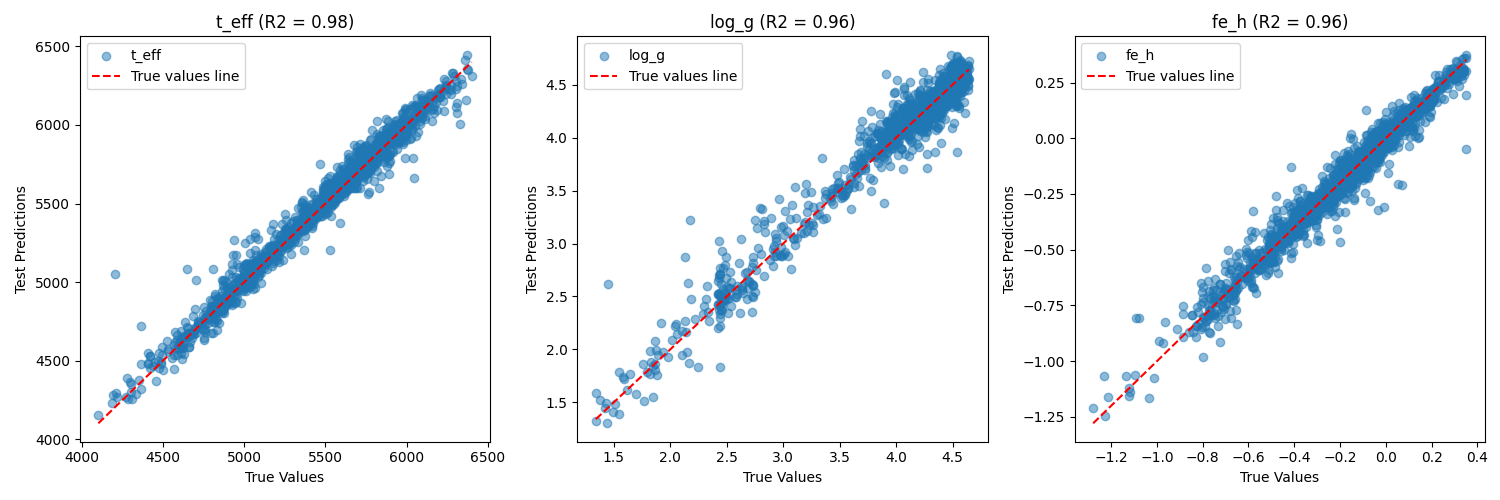
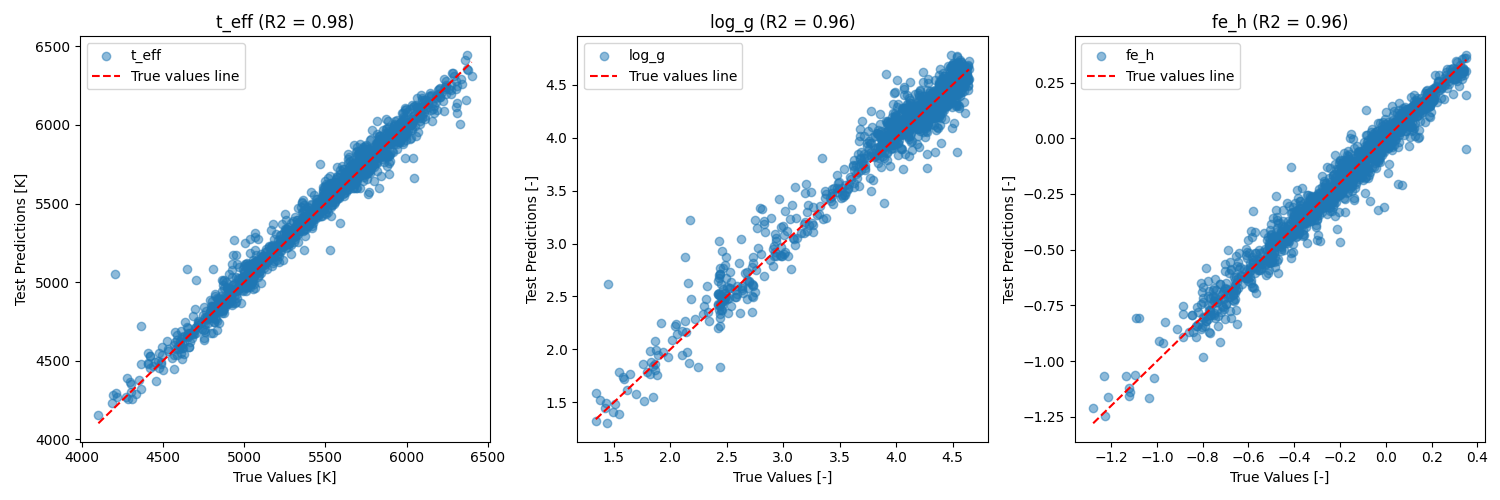
added residuals plot and chart units

diff --git a/2_uncertainty/plot.py b/2_uncertainty/plot.py
@@ -114,7 +114,7 @@ def plot_pull_histogram(true_labels, predicted_means, predicted_stds, num_labels
     plt.savefig(os.path.join(IMAGES_DIR, filename))
     plt.show()
 
-def plot_scatter(true_labels, predicted_means, num_labels, name_labels, experiment_name):
+def plot_scatter(true_labels, predicted_means, num_labels, name_labels, unit_labels, experiment_name):
     
 
     plt.figure(figsize=(15, 5))
@@ -129,13 +129,34 @@ def plot_scatter(true_labels, predicted_means, num_labels, name_labels, experime
         plt.plot([true_labels[:, i].min(), true_labels[:, i].max()],
                 [true_labels[:, i].min(), true_labels[:, i].max()],
                 color="red", linestyle="--", label="True values line")
-        plt.xlabel("True Values")
-        plt.ylabel("Test Predictions")
+        plt.xlabel(f"True Values [{unit_labels[i]}]")
+        plt.ylabel(f"Test Predictions [{unit_labels[i]}]")
         plt.title(f"{name_labels[i]} (R2 = {r2:.2f})")
         plt.legend()
 
     plt.tight_layout()
     filename = f"predictions_{experiment_name}.png"
+    os.makedirs(IMAGES_DIR, exist_ok=True)
+    plt.savefig(os.path.join(IMAGES_DIR, filename))
+    plt.show()
+
+
+def plot_residuals(true_labels, predicted_means, predicted_std, num_labels, name_labels, unit_labels, experiment_name):
+    
+    plt.figure(figsize=(15, 5))
+
+    for i in range(num_labels):
+
+        plt.subplot(1, num_labels, i + 1)  # Create a subplot for each label
+        plt.scatter(true_labels[:, i], true_labels[:, i] - predicted_means[:, i], alpha=0.5, label=name_labels[i])
+        plt.hlines(0, true_labels[:, i].min(), true_labels[:, i].max(), color="red", linestyle="--", label="Zero line")
+        plt.xlabel(f"True Values [{unit_labels[i]}]")
+        plt.ylabel(f"Residuals (True - Predicted) [{unit_labels[i]}]")
+        plt.title(f"{name_labels[i]}")
+        plt.legend()
+
+    plt.tight_layout()
+    filename = f"residuals_{experiment_name}.png"
     os.makedirs(IMAGES_DIR, exist_ok=True)
     plt.savefig(os.path.join(IMAGES_DIR, filename))
     plt.show()

diff --git a/2_uncertainty/main.py b/2_uncertainty/main.py
@@ -4,7 +4,7 @@ from torch.utils.data import random_split, DataLoader
 # import custom modules
 from dataset import torch, np, CustomDataset
 from helpers import os, np, denormalize, nll_loss, new_model, load_model, test_model
-from plot import plot_train_loss, plot_pull_histogram, plot_scatter
+from plot import plot_train_loss, plot_pull_histogram, plot_scatter, plot_residuals
 
 # check for available devices and select if available
 if torch.cuda.is_available():
@@ -144,5 +144,15 @@ plot_scatter(
     denormalized_predicted_means,
     dataset.num_labels,
     dataset.name_labels,
+    dataset.unit_labels,
+    experiment_name,
+)
+
+plot_residuals(
+    denormalized_true_labels,
+    denormalized_predicted_means,
+    dataset.num_labels,
+    dataset.name_labels,
+    dataset.unit_labels,
     experiment_name,
 )
